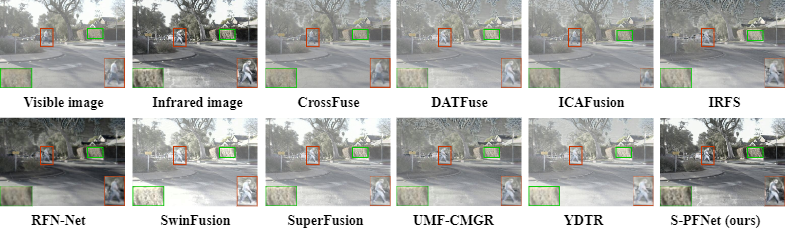
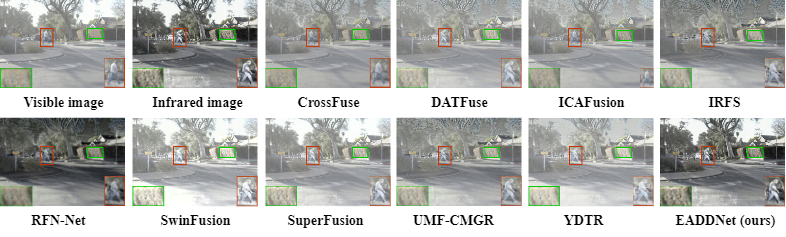
changename

diff --git a/README.MD b/README.MD
@@ -1,5 +1,5 @@
-# S-FFNet-Pytorch: Infrared and Visible Image Fusion via Spatial-Frequency Fusion Network
+# EADDNet-Pytorch: Infrared and Visible Image Fusion via Edge-aware and Attention-enhanced Dual-Domain Network
 
 
 
-### This repository is an official PyTorch implementation of the paper "Infrared and Visible Image Fusion via Spatial-Frequency Fusion Network".
+### This repository is an official PyTorch implementation of the paper "Infrared and Visible Image Fusion via Edge-aware and Attention-enhanced Dual-Domain Network".
